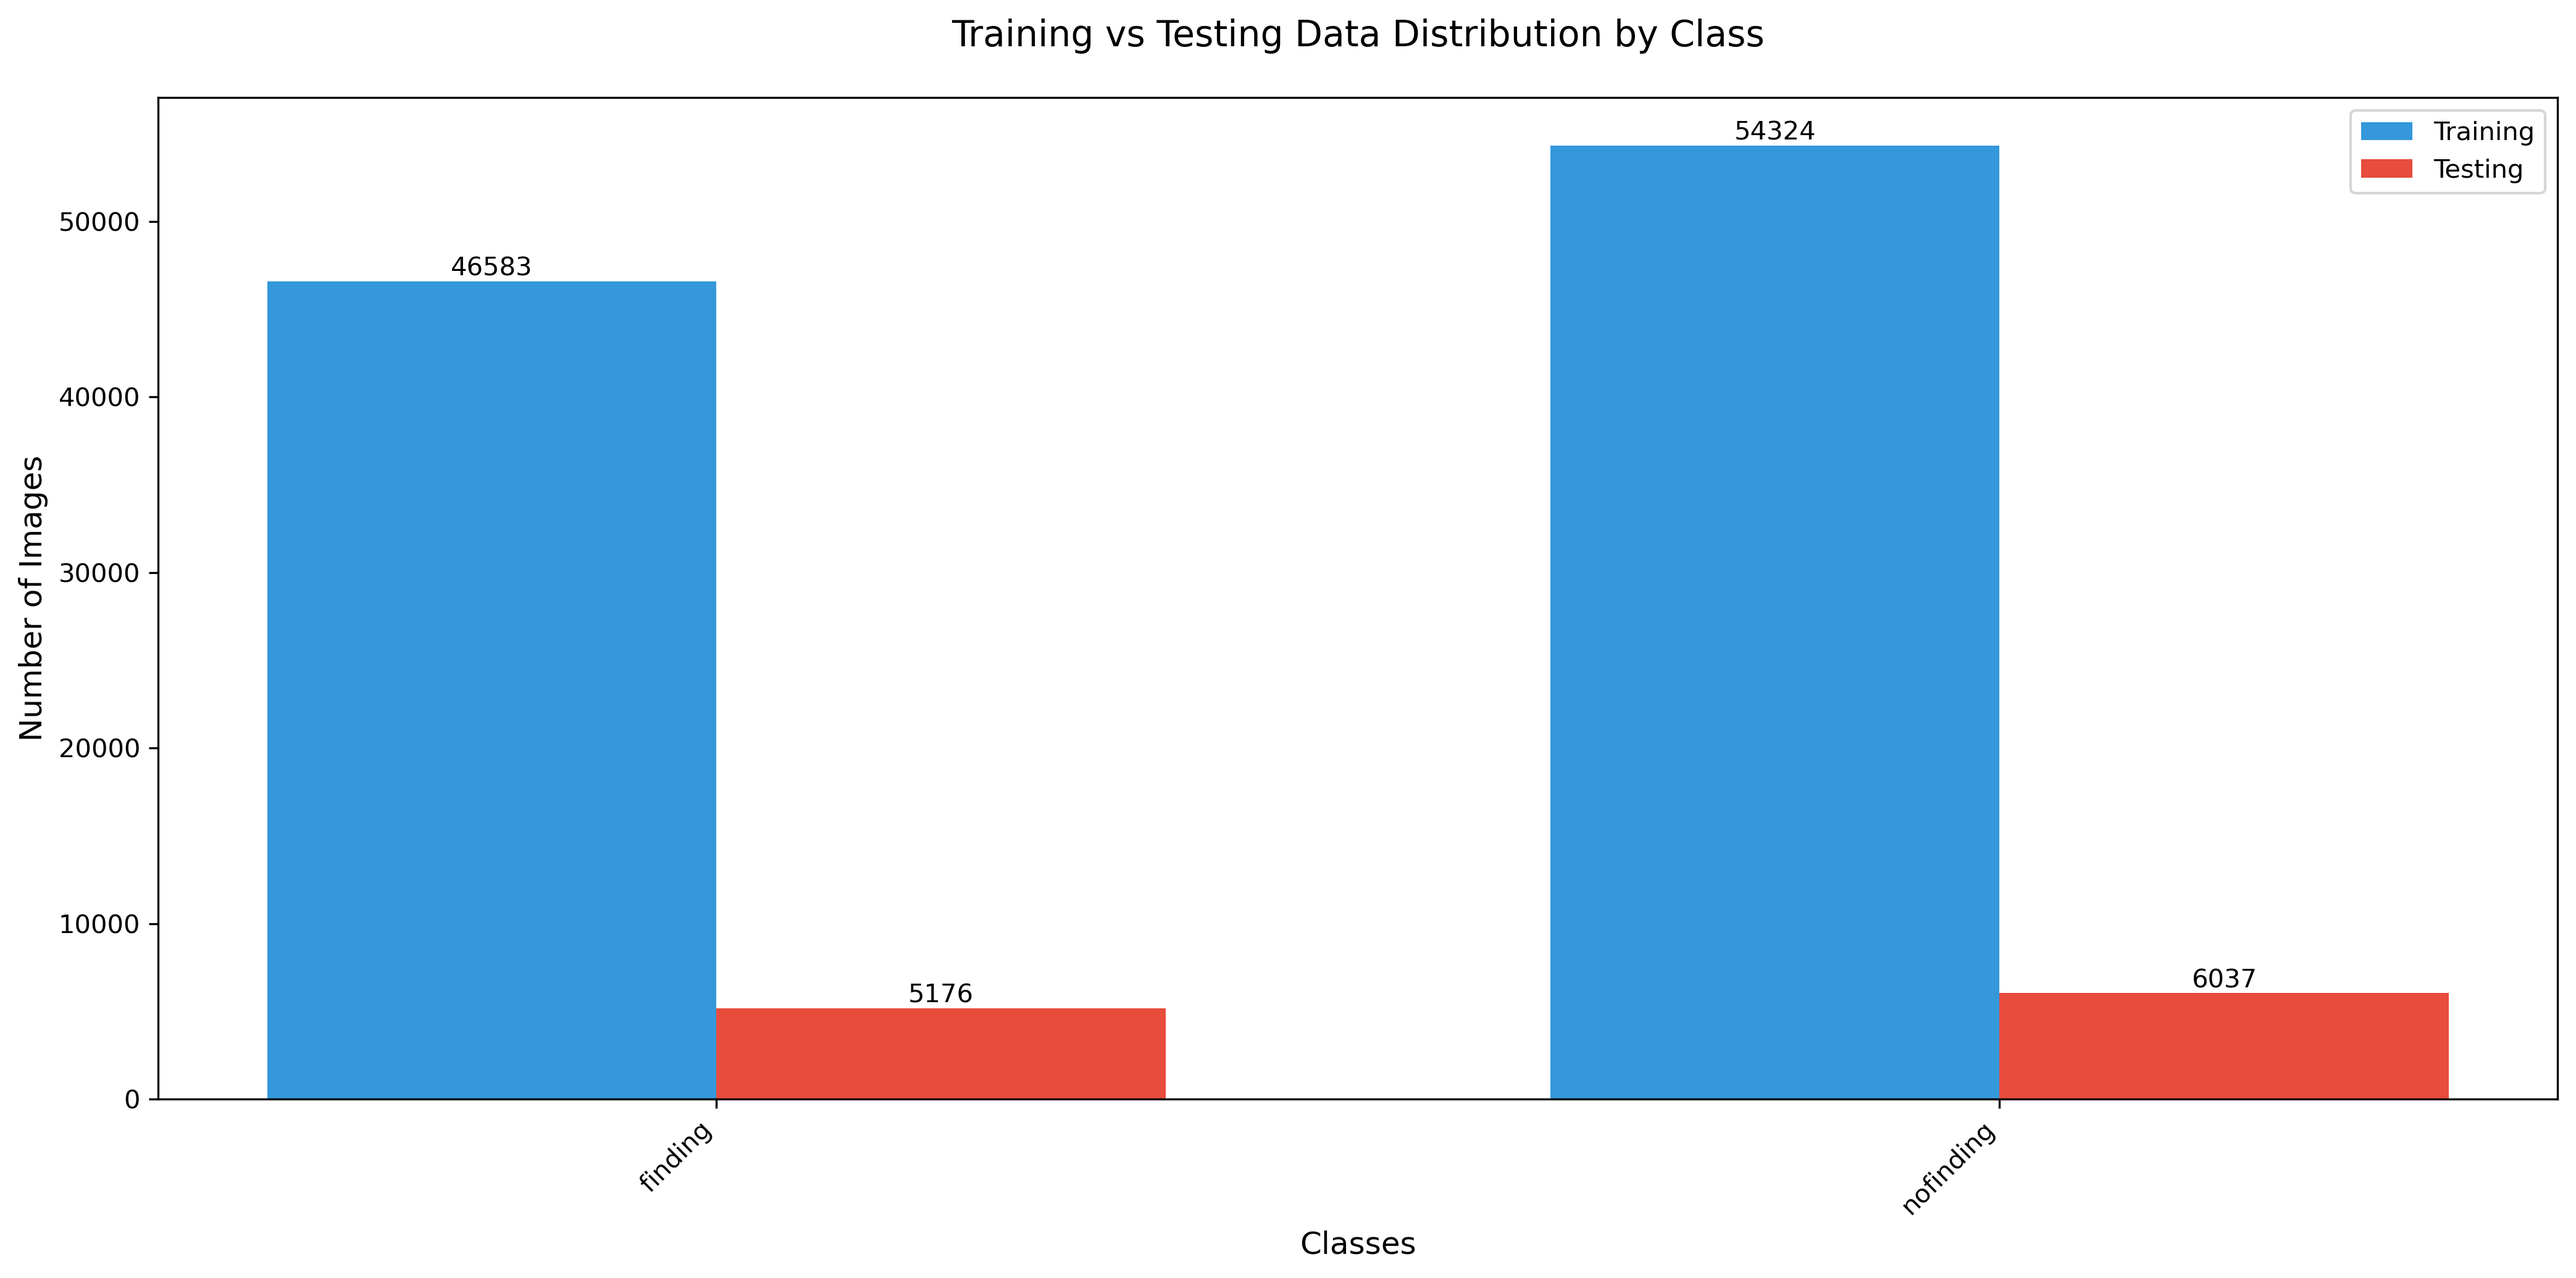
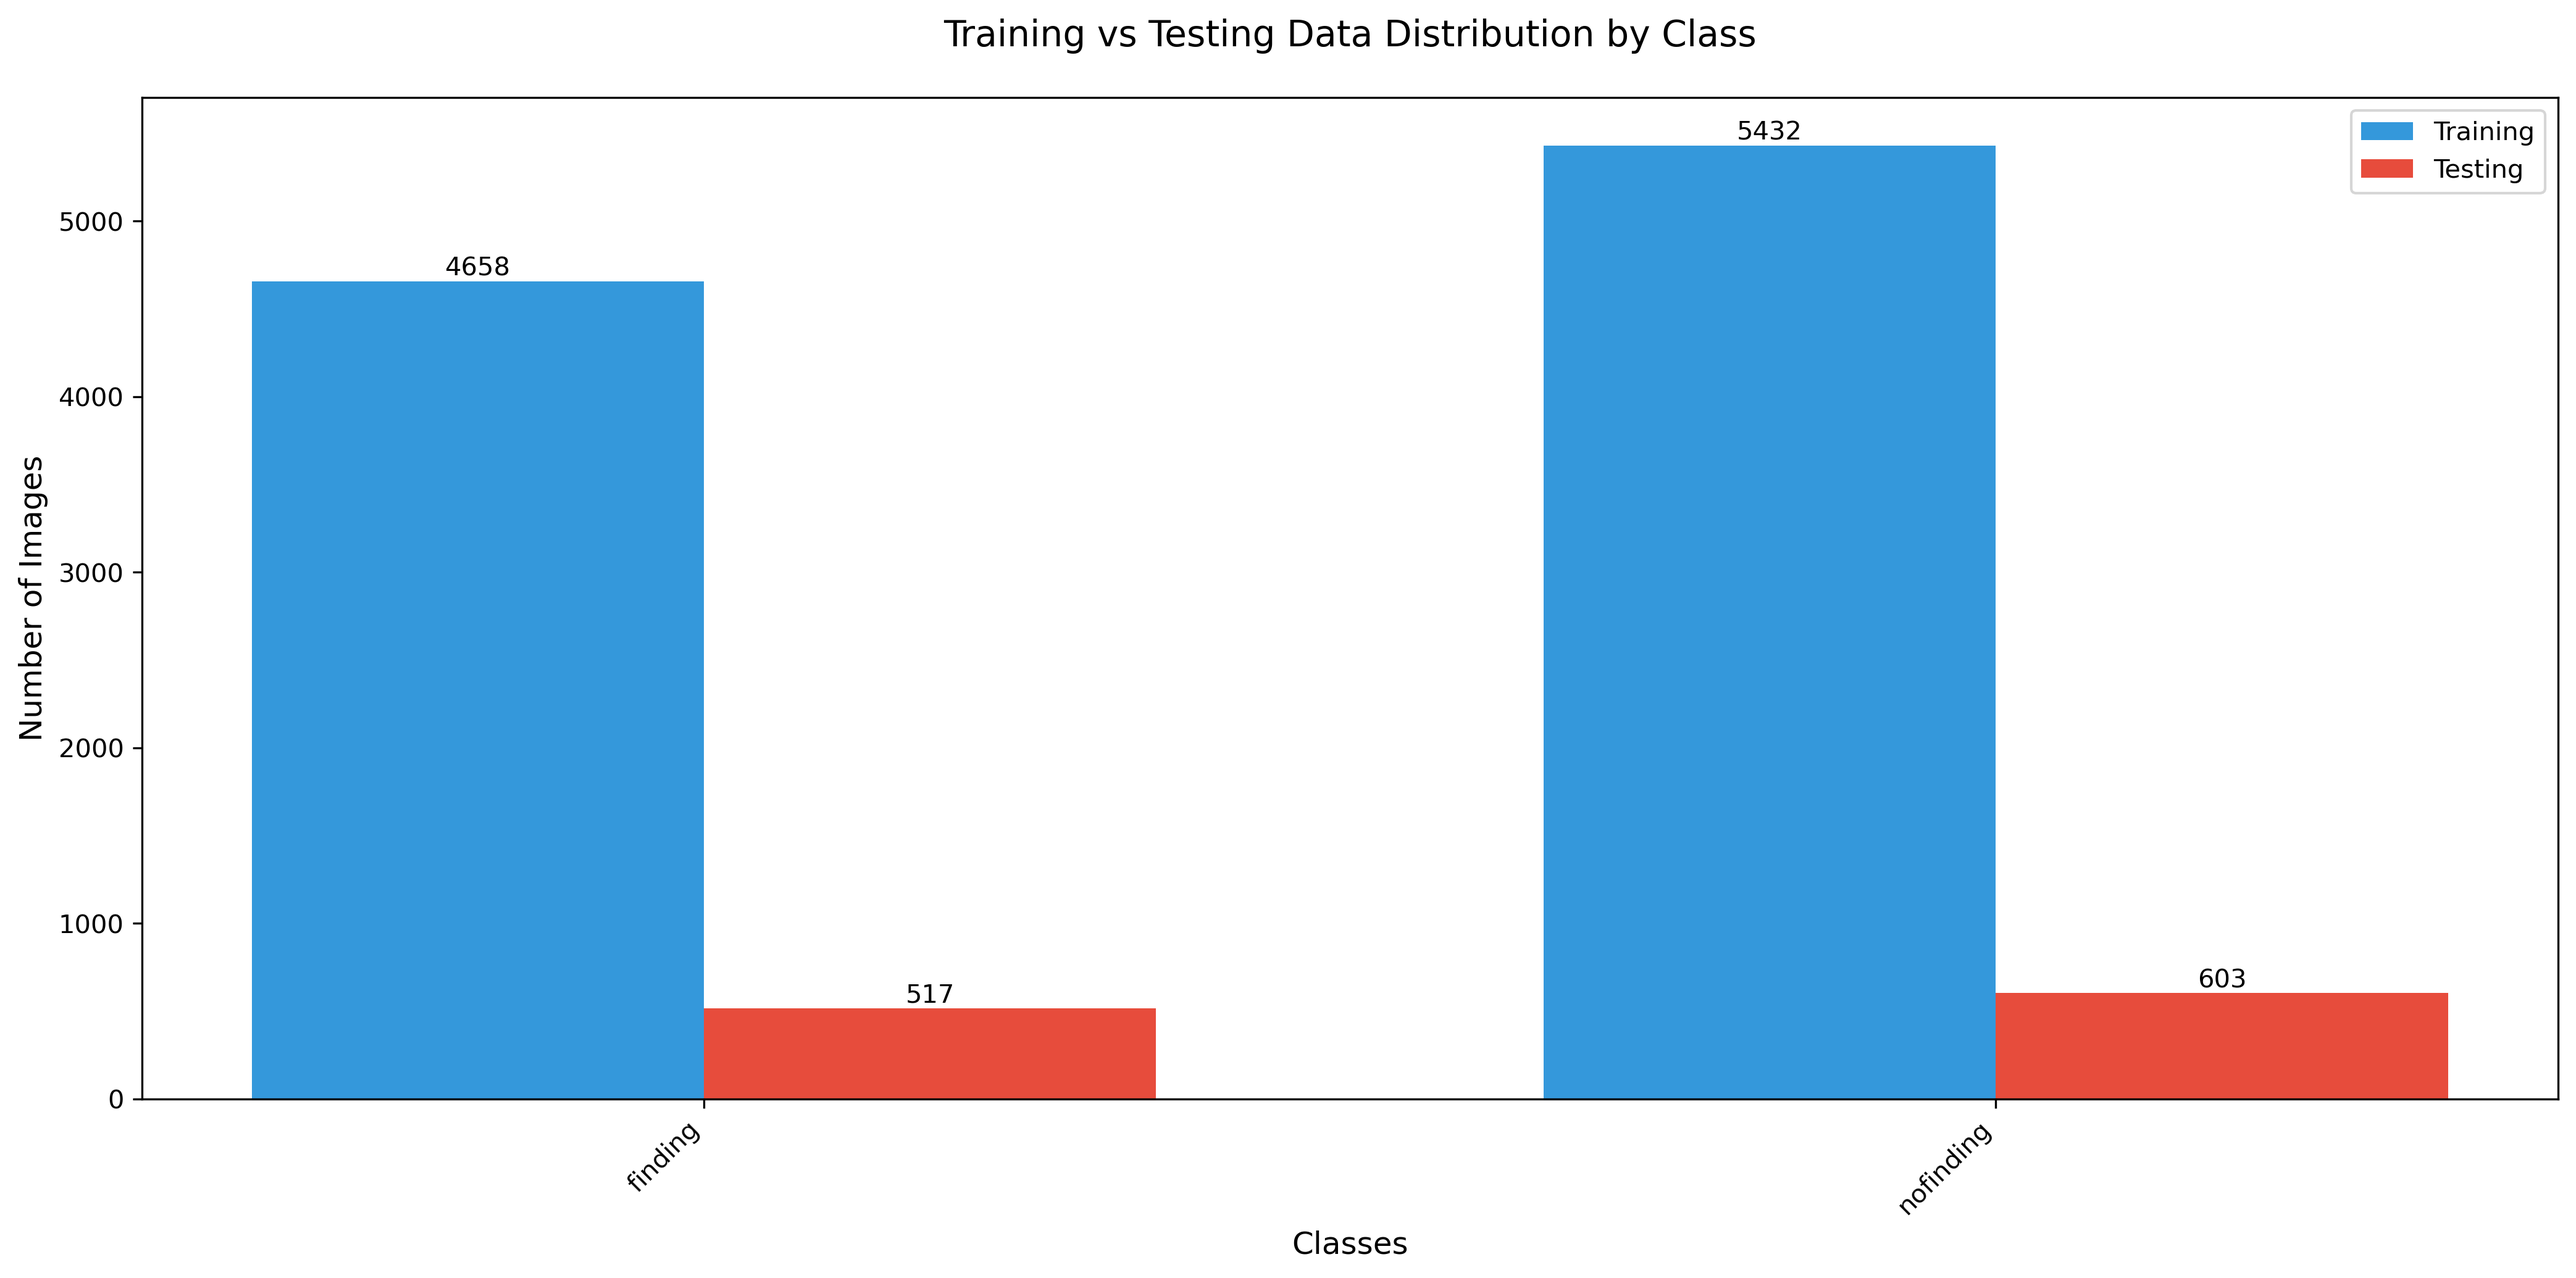
subset

diff --git a/plotsplit.py b/plotsplit.py
@@ -117,7 +117,7 @@ def visualize_data_distribution(data_dir, save_plots=True):
     plt.show()
 
 if __name__ == "__main__":
-    data_directory = "sorted"  # Path to your sorted directory
+    data_directory = "sorted_subset"  # Path to your sorted directory
     
     if not os.path.exists(data_directory):
         print(f"Error: Directory '{data_directory}' not found.")
